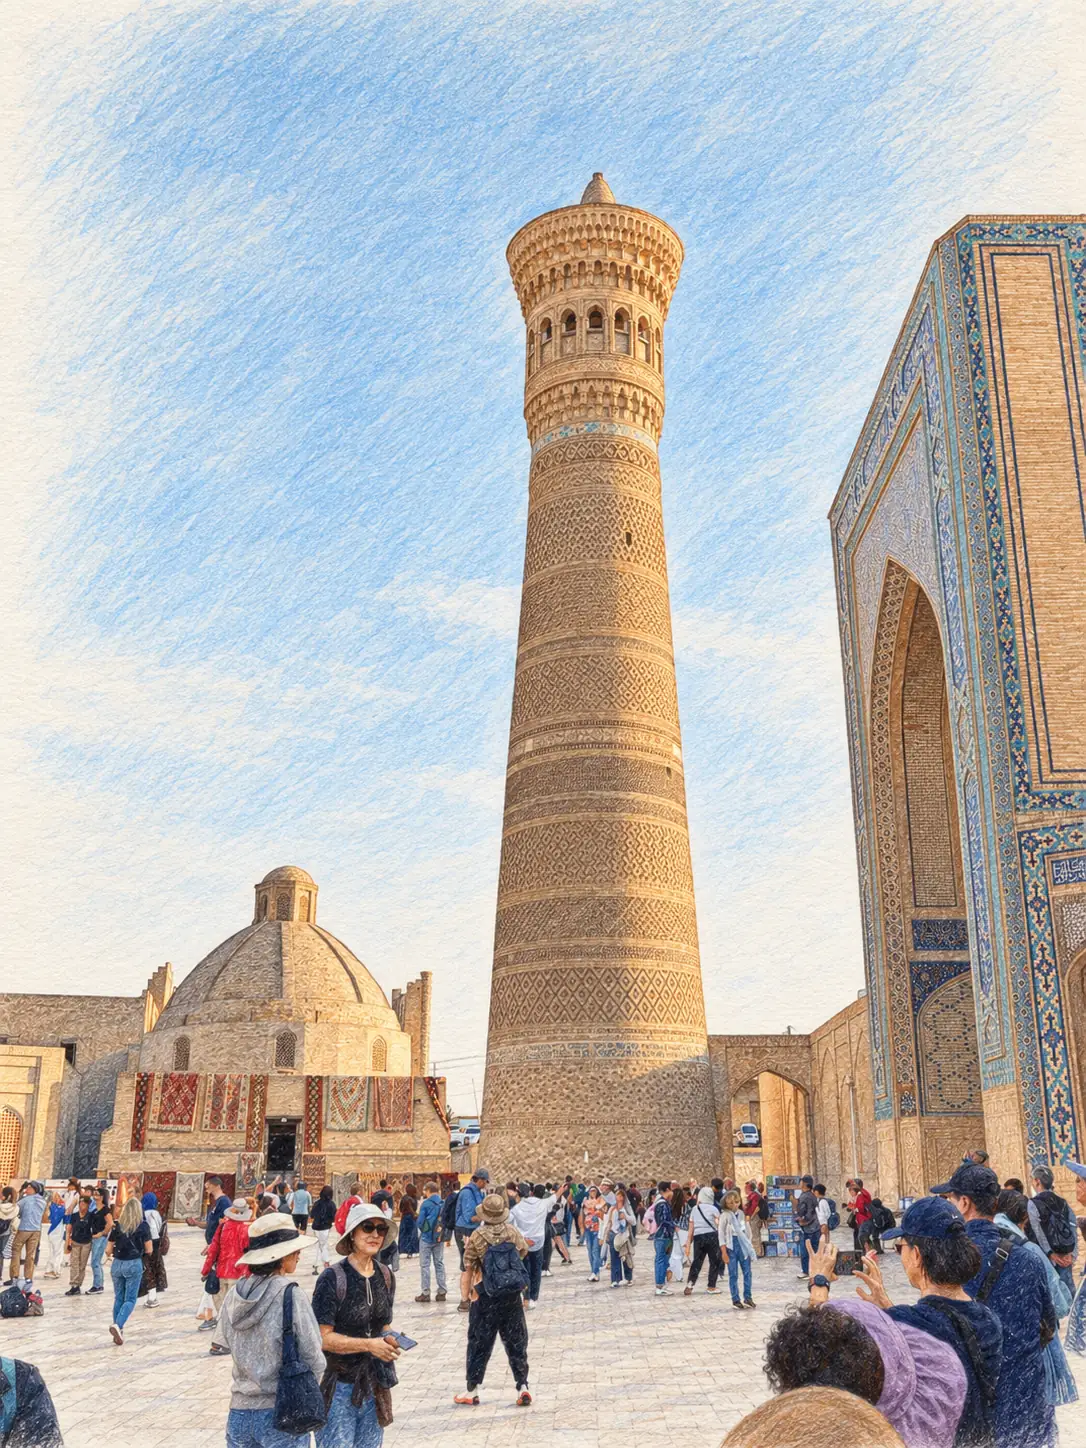
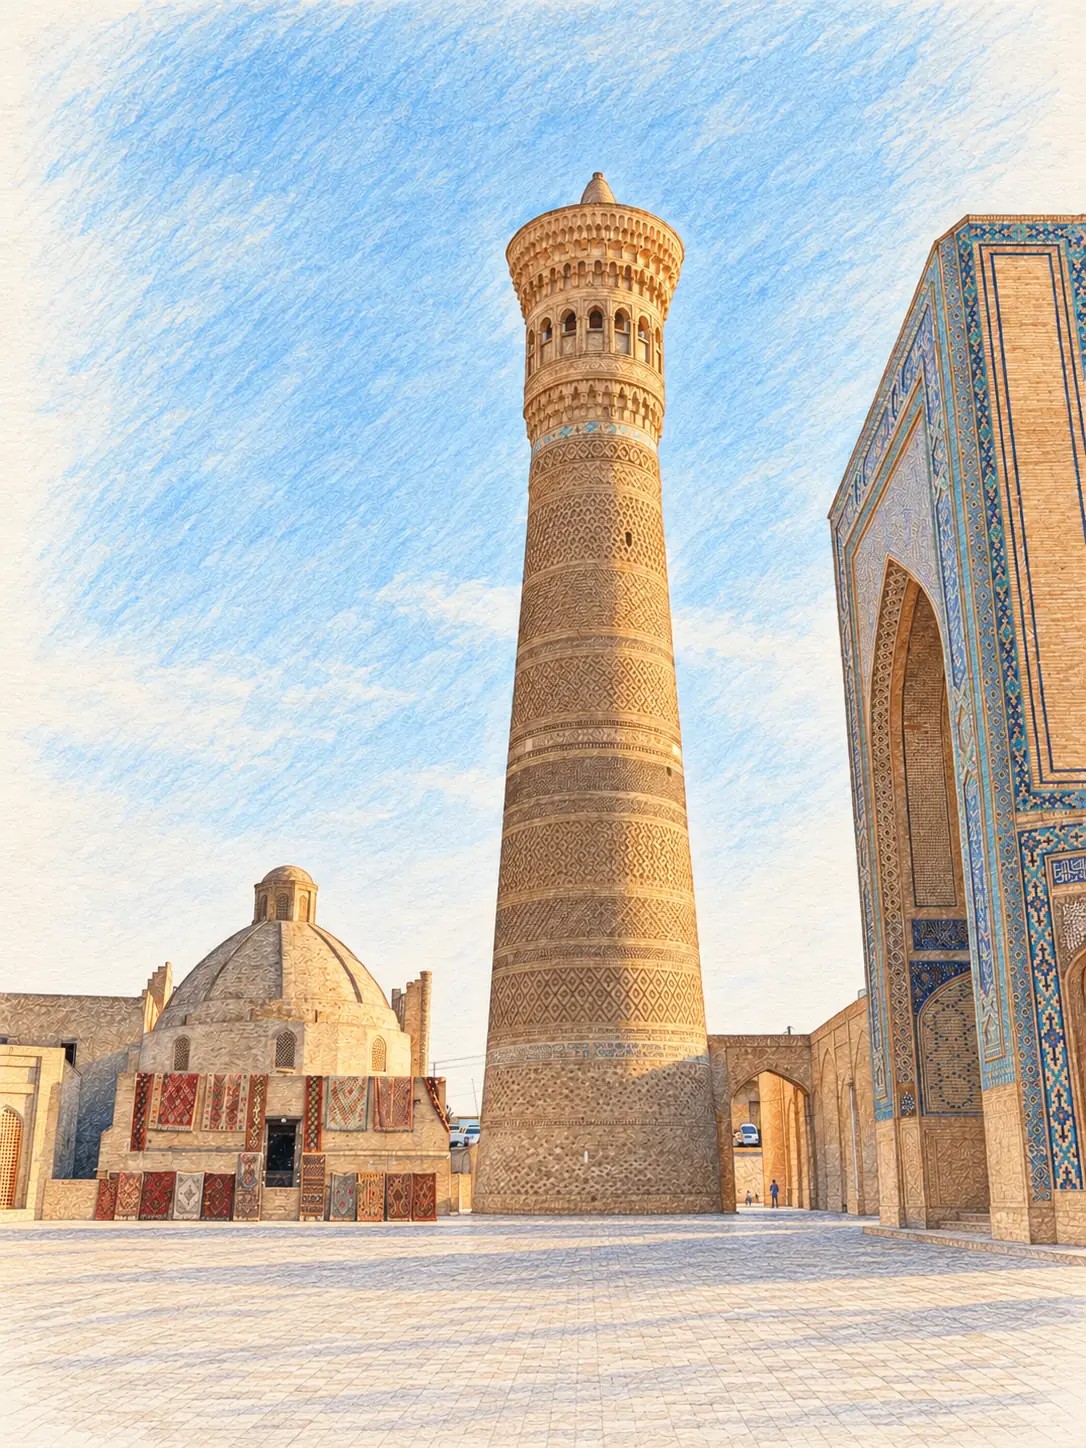
Clean foreground crowd in Kalyan Minaret illustration and record Registan photo locations

diff --git a/tests/service-worker.test.js b/tests/service-worker.test.js
@@ -4,7 +4,7 @@ import fs from 'node:fs';
 import vm from 'node:vm';
 
 const source = fs.readFileSync(new URL('../public/sw.js', import.meta.url), 'utf8');
-const current = 'ca26-pages-v6-three-country-guide';
+const current = 'ca26-pages-v7-minaret-refresh';
 function worker({ put = async () => {}, fetch = async () => new Response('network') } = {}) {
   const stores = new Map(), handlers = {};
   const caches = {
@@ -32,7 +32,7 @@ function worker({ put = async () => {}, fetch = async () => new Response('networ
 
 test('worker upgrade deletes only older travel-guide caches and preserves other sites', async () => {
   const { stores, handlers } = worker();
-  for (const key of ['ca26-pages-v5-bukhara-registan', current, 'other-site-v1']) stores.set(key, new Map());
+  for (const key of ['ca26-pages-v5-bukhara-registan', 'ca26-pages-v6-three-country-guide', current, 'other-site-v1']) stores.set(key, new Map());
   let completion;
   handlers.activate({ waitUntil: promise => { completion = promise; } });
   await completion;

diff --git a/public/sw.js b/public/sw.js
@@ -1,4 +1,4 @@
-const CACHE = 'ca26-pages-v6-three-country-guide';
+const CACHE = 'ca26-pages-v7-minaret-refresh';
 const CACHE_PREFIX = 'ca26-pages-';
 const ROOT = '/codex/';
 

diff --git a/docs/audit/destination-images.md b/docs/audit/destination-images.md
@@ -81,10 +81,10 @@ Pages Actions [39142365237](https://github.com/JinhaPark/codex/actions/runs/3914
   IMG_3ED8DFE7-C3BB-4C0F-B4C0-A06642AA85A2→white-honey-jar-pencil,
   IMG_E6498561-22A6-472B-85A7-DFBF57A45744→suusamyr-honey-pencil (모두 .jpeg).
 - IMG_9010.jpeg: 레기스탄 전경. 이미 확보했으므로 수량을 채우기 위한 재변환은 하지 않음.
-- IMG_8932.jpeg (동일 바이트 (1)·(2) 있음): 청록색 돔과 타일 외벽. 원본 크기로 확인. 건물명 사용자 확인 대기.
-- IMG_8936.jpeg: 청색·금색 원형 천장과 흰 아치 창. 원본 크기로 확인. 촬영 장소 사용자 확인 대기.
+- IMG_8932.jpeg (동일 바이트 (1)·(2) 있음): 청록색 돔과 타일 외벽. 원본 크기로 확인. 사용자 확인: 레기스탄 광장 가운데 건물에서 촬영.
+- IMG_8936.jpeg: 청색·금색 원형 천장과 흰 아치 창. 원본 크기로 확인. 사용자 확인: 레기스탄 광장 가운데 건물에서 촬영.
 
-신규 이미지는 아직 생성·공개하지 않았다. 미처리2점의 장소 확인 후 필요한 관광지에 해당할 때 변환한다.
+신규 이미지는 아직 생성·공개하지 않았다. IMG_8932·IMG_8936은 사용자 설명으로 레기스탄 광장 가운데 건물 촬영임을 확인했다. 이미 확보된 레기스탄이므로 추가 변환하지 않는다.
 기존 대상과 중복이면 불필요한 재생성을 생략한다. garden-eaves-watercolor는 복원하지 않는다.
 
 ## 다음 실행 단계
@@ -135,7 +135,7 @@ Pages Actions [39142365237](https://github.com/JinhaPark/codex/actions/runs/3914
 23. 그린 바자르 — 누락 — 장소가 식별되는 전경 또는 입구 사진
 24. 아르바트 거리 — 누락 — 장소가 식별되는 전경 또는 입구 사진
 
-번호 또는 장소명과 함께 사진을 여러 장씩 올릴 수 있다. 기존 미처리 IMG_8932·IMG_8936은 장소명만 알려주어도 된다.
+번호 또는 장소명과 함께 사진을 여러 장씩 올릴 수 있다. IMG_8932·IMG_8936의 촬영 장소는 사용자 확인으로 해결되었으며 재업로드할 필요가 없다.
 
 
 ## 이번 완료·검증·인계
@@ -151,7 +151,7 @@ Pages Actions [39142365237](https://github.com/JinhaPark/codex/actions/runs/3914
   manifest의 모든23개 ID 도달·각1회 배치,63개 URL 디코딩 통과. 준비물 저장·방문 해설과 그림 오프라인 재열람·타 사이트 캐시 보존 통과.
 - 이번에도 실제 iPhone Safari·실물 기기·라이브 환율API는 미검증이다. `browser.json`은 이번 로컬 빌드 결과이며 배포 성공을 뜻하지 않는다.
 - 브랜치 `audit/destination-images-20261018`의 이 문서를 포함한 최신 커밋이 재개 지점이다. 정확한 SHA는 `git log -1` 또는 PR head로 확인한다.
-- 다음 작업은 요청 번호1–24 사진 입력, IMG_8932/IMG_8936 장소 확인, 미확인 기존 산간 풍경·필사본·아치의 촬영 장소 확인이다.
+- 다음 작업은 요청 번호1–24 사진 입력, 미확인 기존 산간 풍경·필사본·아치의 촬영 장소 확인이다.
   사진이 없으면 변환만 대기한다. 앱이 닫힌 뒤 대화 전체가 계속 실행된다고 보장하지 않는다.
 
 구현·검증 커밋: `c6a26c1e260307ecf1f37ca70b532d630a2a0553`. 검토 PR: [#2](https://github.com/JinhaPark/codex/pull/2).
@@ -160,8 +160,21 @@ Pages Actions [39142365237](https://github.com/JinhaPark/codex/actions/runs/3914
 
 ## 추가 대조 및 동일 PR 후속
 
-같은 작업 PR #2의 기존 구현·사진 요청 번호1–24를 유지하며 추가 대조했다. 이번 관련 업로드52개를 SHA-256으로 대조한 고유 파일은40개다. 기존 범위30개·고유19개보다 범위를 넓혀 확인한 값이며 기존 수량을 정정하는 뜻이 아니다. 기존 manifest의23개 원본과 게시 그림을 연락시트로 함께 확인했다. 일정표·스크린샷·지도·기기 화면·헤어제품·리조트 안내문은 관광지 대응 사진으로 사용하지 않는다. IMG_9010은 확보된 레기스탄의 추가 전경, IMG_8932와 IMG_8936은 장소 확인 대기로 동일하다. 제외된 처마·정원 원본은 복원하지 않았다. 추가로 확인된 여행 사진 중 새 관광지로 확정한 것은 없다.
+같은 작업 PR #2의 기존 구현·사진 요청 번호1–24를 유지하며 추가 대조했다. 이번 관련 업로드52개를 SHA-256으로 대조한 고유 파일은40개다. 기존 범위30개·고유19개보다 범위를 넓혀 확인한 값이며 기존 수량을 정정하는 뜻이 아니다. 기존 manifest의23개 원본과 게시 그림을 연락시트로 함께 확인했다. 일정표·스크린샷·지도·기기 화면·헤어제품·리조트 안내문은 관광지 대응 사진으로 사용하지 않는다. IMG_9010은 확보된 레기스탄의 추가 전경, IMG_8932와 IMG_8936은 당시 장소 확인 대기였으며 아래 사용자 확인으로 해결되었다. 제외된 처마·정원 원본은 복원하지 않았다. 추가로 확인된 여행 사진 중 새 관광지로 확정한 것은 없다.
 
 기존 캡션 정리 후 일부 alt가 조사·관형어로 끝나는 부분을 관찰 가능한 완결된 구로 다듬었다. 인천공항의 국가를 대한민국으로 바로잡았다. 기존 사진 요청 번호와 관광지30곳 판정은 유지한다. 렌더러 실제 실행의 금지문구 검사, 요약에만 있는3개 방문지 검사, 미확인 그림의 확보 방지 검사, 모바일 세로 그림 높이 검사를 보강했다.
 
 후속 검증: 테스트13/13·build·Pillow63개 전수 검사·Chromium375/390/430px 회귀 통과(2026-10-18T16:09:01.243Z). 이 절을 포함한 후속 커밋은 PR #2의 최신 head에서 확인한다. 원본 사진은 공개하지 않았고 main은 변경하지 않았다.
+
+## 사용자 확인·칼랸 미나레트 인물 정리 (2026-10-18)
+
+- IMG_8932(청록색 돔)·IMG_8936(원형 천장)은 사용자 설명에 따라 레기스탄 광장 가운데 건물 촬영으로 확인했다. 개별 전각 고유명은 추가 추정하지 않는다. 기존 레기스탄 확보 판정과 요청 번호1–24는 유지하며 이 두 사진은 중복 생성하지 않는다.
+- 사용자 요청으로 IMG_8818의 기존 색연필화 bukhara-kalyan-minaret-pencil을 교체했다. 미나레트 아래 정면을 향한 모자·선글라스 인물을 포함한 큰 전경 인물·잘린 머리·밀집 군중을 제거하고 석재 바닥을 이어 그렸다. 먼 출입구의 작은 인물만 남겼다. 주요 건축 구도·벽돌 장식·돔·타일·종횡비는 기존 그림과 대조했다.
+- 같은 ID·배치 bukhara:4:1·캡션을 유지한다. 새 작품 추가0, 기존1점 교체다. 자동 제작문구는 넣지 않았다. 원본 JPEG는 커밋하지 않는다.
+- 게시용3개는 실제 변환본1086×1448을 기준으로480·800·1086px 폭으로 축소했다. 메타데이터를 제거했고 표준본250KB 이하로 최적화했다. 구도 복원을 위해 확대·늘림·크롭하지 않았다.
+- 서비스워커 캐시를 v7-minaret-refresh로 갱신해 추후 배포 시 같은 URL의 이전 그림과 앱이 계속 남지 않게 한다. main 병합·배포는 아직 하지 않는다.
+- 제작 방식: 내장 imagegen. 입력은 기존 승인 색연필화(수정 대상)와 IMG_8818(건축 참조). 지시는 전경 인물과 군중을 정리하고 드러난 포장면을 복원하되 미나레트·돔·벽돌 문양·우측 타일·하늘·빛·기존3:4 구도를 유지하며 새 랜드마크·문자·인물을 추가하지 않는 것이었다.
+
+인물 정리본 게시 파일: public/illustrations/bukhara-kalyan-minaret-pencil-{480,800,1086}.webp. 실제 최적화 규격·용량은 images.md 최신 절에 기록했다. 사용자 요청으로 교체하므로 작품 수23·파일 수63은 유지한다.
+
+최종 검증: npm test13/13, npm run build, Pillow63개 실제 디코딩·규격·용량·메타데이터·중복 검사, Chromium375/390/430px 전체 회귀와 수정 칼랸 그림의 방문 후 오프라인 재열람을 통과했다(2026-10-18T16:13:26.012Z). 실제 iPhone Safari는 미검증. 다음 작업은 기존 요청 번호1–24 사진과 미확인 산간 풍경·필사본·아치의 장소 확인이다. 8932/8936 장소 확인과 칼랸 인물 정리는 완료이며 다시 생성할 필요가 없다. 같은 PR #2 최신 head에서 이어간다.

diff --git a/docs/audit/images.md b/docs/audit/images.md
@@ -66,3 +66,17 @@
 manifest/실제 디렉터리 집합 비교와 전체 ID 도달 검사를 추가해 새 자산 추가 시에도 누락·여분·중복을 감지한다.
 
 동일 PR 후속에서 관련 업로드 전체52개·바이트 고유40개로 확인 범위를 확대했다(일정표/스크린샷 등 포함). 신규 관광지로 확정한 사진은 없고 기존 IMG_8932·IMG_8936 장소 확인 대기를 유지한다. 제작 꼬리말 제거 뒤 alt의 일부 미완결 어구를 자연스러운 관찰 설명으로 다듬었다. 테스트13개와 전체 자산·모바일 회귀를 다시 통과했다.
+
+## 칼랸 미나레트 인물 정리본
+
+2026-10-18 사용자 요청에 따라 기존 bukhara-kalyan-minaret-pencil 1점을 교체했다. 내장 imagegen에서 기존 승인 색연필화와 IMG_8818 원본을 직접 참조하여 전경 인물과 밀집 군중을 정리했다. 미나레트 아래 정면을 향한 인물을 제거했고, 출입구의 작은 원경 인물만 유지했다. 구도·비율·건축·벽돌 장식을 원본/기존 그림/결과로 대조했다. 캡션·ID·배치키 유지, alt는 석재 광장을 반영했다.
+
+| 폭×높이 | 바이트 | WebP 품질 |
+|---|---:|---:|
+| 480×640 | 83,948 | 84 |
+| 800×1067 | 227,260 | 84 |
+| 1086×1448 | 240,660 | 74 |
+
+입력 사진1152×1536, 실제 변환본1086×1448. 변환본보다 확대하지 않고 종횡비를 유지했다. 기존 파이프라인의 Pillow LANCZOS·WebP method6·단계적 품질 조정을 사용했다. 3개 모두250KB 이하다. 현재23점63파일, 총11,295,296바이트, 표준본 합4,331,458바이트다. 이 절이 해당 작품의 이전 규격표보다 최신이다.
+
+IMG_8932·IMG_8936은 사용자 설명으로 레기스탄 광장 가운데 건물 촬영임을 확인했다. 이미 확보된 장소이므로 새 그림을 추가하지 않는다. 원본 사진은 비공개 작업 폴더에만 두며 공개 저장소에 추가하지 않았다.

diff --git a/docs/audit/browser.md b/docs/audit/browser.md
@@ -58,3 +58,7 @@
 ## 동일 PR 추가 회귀
 
 2026-10-18T16:09:01.243Z, Chromium153.0.8010.0, 로컬 JS index-DC-zKZPm.js / CSS index-DhzJzpNS.css에서 재통과했다. 기존 전체375·390·430px 검증에 공통 figcaption small 부재와 세로 사진 높이가812px 뷰포트를 넘지 않는 조건을 추가했다. 테스트13/13, build, Pillow63개 실제 디코딩·규격·용량·메타데이터·비중복 검사도 통과했다. alt 문법 보완과 인천공항 국가 정정만 추가되었고 기존 사진 요청 번호는 유지한다. 실제 iPhone Safari·현장 네트워크·라이브 환율·이번 PR 배포는 미검증이다.
+
+## 칼랸 미나레트 교체 회귀
+
+2026-10-18T16:13:26.012Z, Chromium153.0.8010.0. 새 색연필화와 v7-minaret-refresh worker를 포함한 로컬 프로덕션 빌드에서375·390·430px, 전체 일정·탭·23개 배치·63개 변형 디코딩·캡션·준비물 저장 검사를 통과했다. v6 캐시명/현재 앱 통제 fixture에서 v7 업데이트와 타 사이트 캐시 보존을 확인했다. 방문한 이식쿨 그림과 수정한 칼랸 그림을 오프라인 새로고침 후 다시 decode했다. 실제 과거 번들 전체의 업데이트나 실제 iPhone Safari 검증은 수행하지 않았다. npm test13개·build·Pillow63개 전수 검사 통과. 새 버전은 PR 검토 단계이며 main 배포는 하지 않았다.
